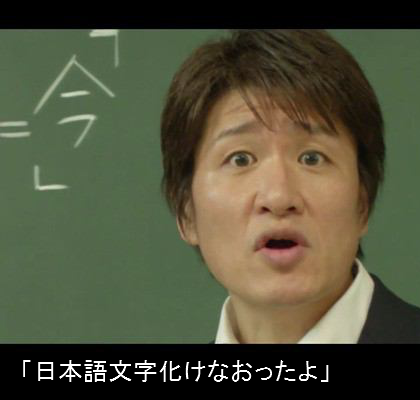
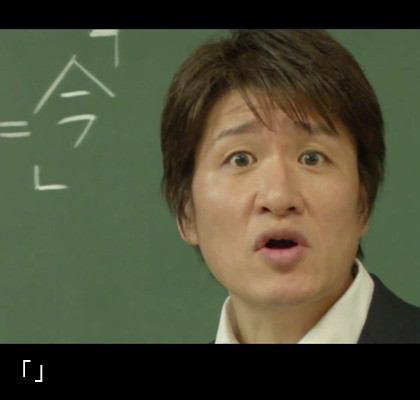
.

Changed region(s): [[0.0619, 0.9, 0.8048, 0.96]]

diff --git a/app.rb b/app.rb
@@ -1,9 +1,18 @@
 # encoding: utf-8
 
-require 'sinatra/reloader'
-  if development?
-end
+require 'sinatra'
+require 'haml'
+require 'cairo'
+require 'tempfile'
 
+
+#require 'sinatra/reloader'
+#  if development?
+#end
+configure :development do
+  require 'pry'
+  require 'sinatra/reloader'
+end
 
 
 get '/' do
@@ -13,8 +22,9 @@ end
 
 
 get '/doitnow' do
+  # binding.pry
+
   @title = 'Do it now!'
-  haml :doitnow
 
   w = 420
   h = 400
@@ -36,11 +46,15 @@ get '/doitnow' do
   context.font_size = 25
   context.move_to(20, 380)
   context.show_text('「'+params[:url]+'」')
+
   #Drawing background-color(Black)
-  surface.write_to_png('views/paint.png')
-  #Sent to doitnow.haml 
+  tmpfile = Tempfile.new(["hayashi", ".png"])
+  surface.write_to_png(tmpfile.path)
+  tmpfile.open # reopen
+
+  #Render png binary content
   content_type :png
-  send_file "views/paint.png"
+  tmpfile.read
   end
 
 
@@ -56,5 +70,4 @@ helpers do
       url
     end
   end
-
 end
